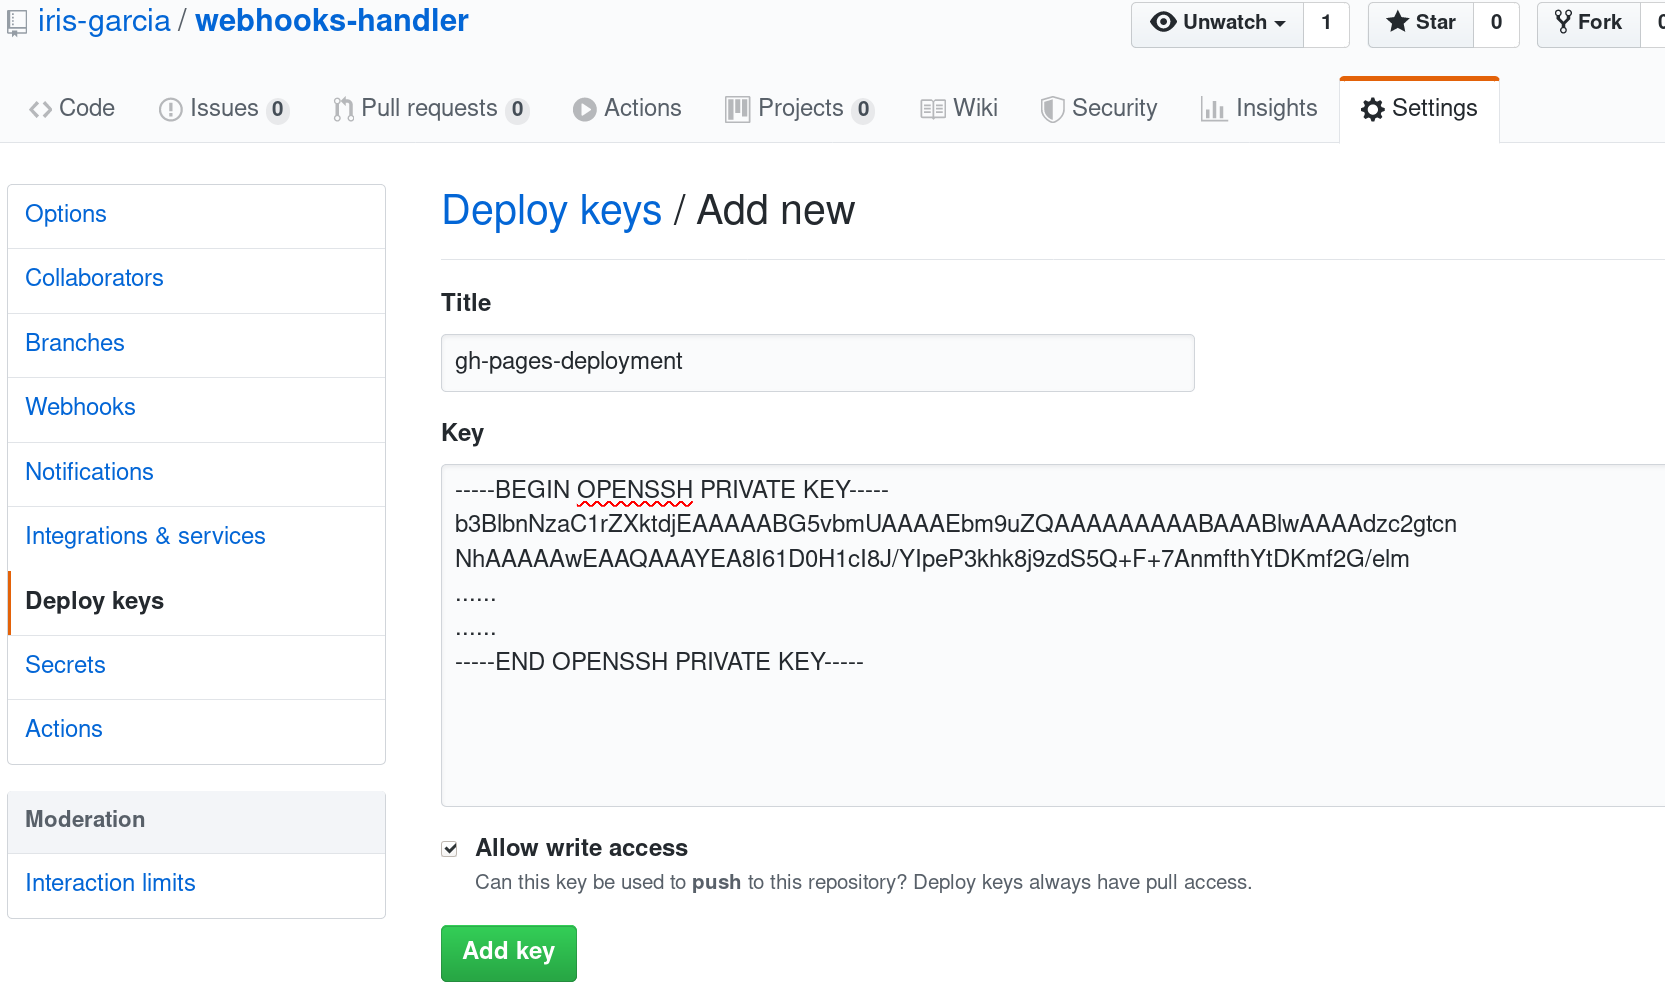
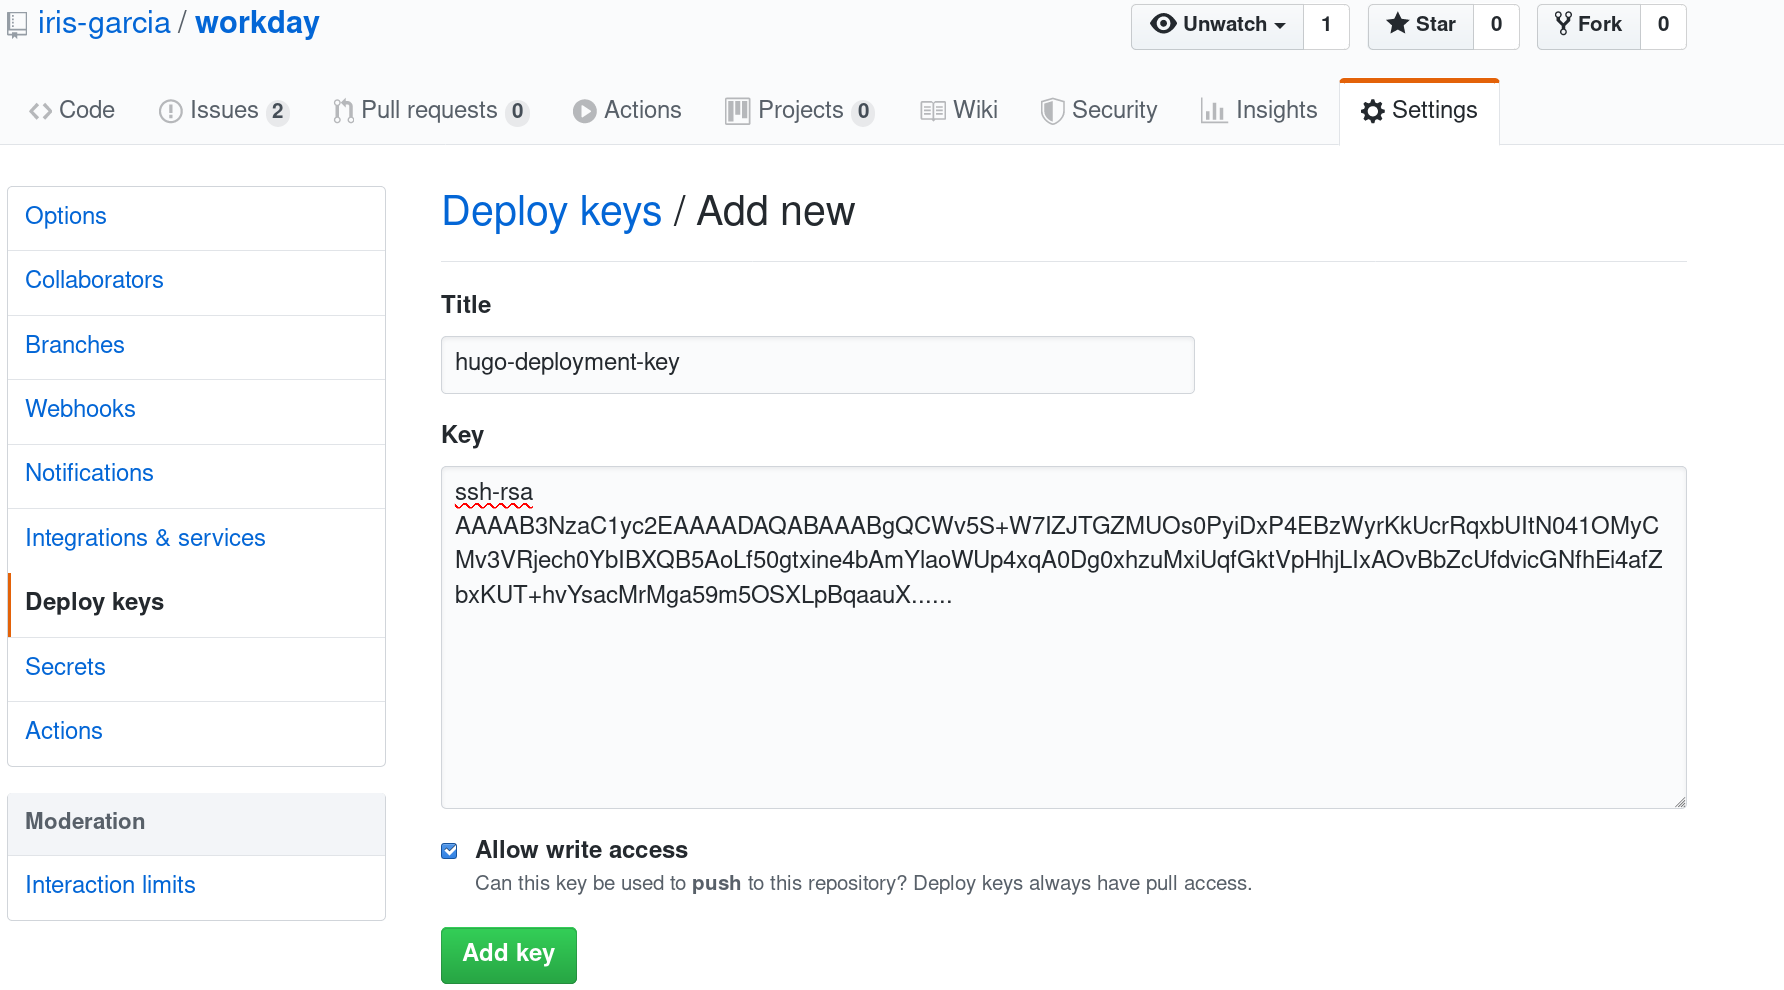
#13 Adds GitHub pages using hugo; closes #13.

diff --git a/docs/content/howto/gh-pages/_index.md b/docs/content/howto/gh-pages/_index.md
@@ -1,7 +1,7 @@
 +++
 title = "GitHub Pages"
 author = ["Iris Garcia"]
-lastmod = 2019-10-14T22:25:08+02:00
+lastmod = 2019-10-16T20:42:39+02:00
 tags = ["ci", "hugo", "doc"]
 draft = false
 weight = 1
@@ -22,23 +22,19 @@ are:
 
 So basically this project's repository has the following branches:
 
--   **master**: Hosts the source code of the project.
--   **hugo**: Hosts the source code of the documentation website.
--   **gh-pages**: Hosts the static assets generates by hugo.
+-   **master**: Hosts the source code of the project under the `docs/` folder.
+-   **gh-pages**: Hosts the static assets generated by hugo.
 
 
-## Step 1: Initializing branches {#step-1-initializing-branches}
+## Step 1: Structure {#step-1-structure}
 
 ```bash
-# Hugo branch
-git checkout -b hugo
-echo "public" >> .gitignore
-git add .gitignore
-git commit -m "Adds .gitignore"
+# Docs folder
+mkdir docs && cd docs
 hugo new site .
 git add .
 git commit -m "Adds initial hugo site"
-git push origin hugo
+git push origin master
 
 # gh-pages branch
 git checkout --orphan gh-pages
@@ -63,8 +59,8 @@ needed for the next steps.
 ## Step 3: Add a deployment key {#step-3-add-a-deployment-key}
 
 Navigate to your GitHub's repository settings and under **Deploy keys**
-and add a new one using the content of the `hugo` SSH private key
-generated in the previous step.
+add a new one using the content of the `hugo.pub` SSH key generated in
+the previous step.
 
 {{< figure src="/images/deploy_key.png" >}}
 
@@ -74,30 +70,38 @@ Action won't be able to push changes.
 {{% /notice %}}
 
 
-## Step 4: Add the GitHub's Action. {#step-4-add-the-github-s-action-dot}
+## Step 4: Create a secret {#step-4-create-a-secret}
+
+Navigate to you GitHub's repository settings and under **Secrets** add a
+new one using the content of the `hugo` SSH private key generated in
+the [step 2](#step-2-generate-a-ssh-key-dot).
+
+{{< figure src="/images/gh_secret.png" >}}
+
+
+## Step 5: Add the GitHub's Action. {#step-5-add-the-github-s-action-dot}
 
 Create the needed directory in the **hugo** branch:
 
 ```bash
-git checkout hugo
 mkdir -p .github/workflows
 ```
 
 Add a new file in the path `.github/workflows/gh_pages.yml` with the
 following content:
 
-{{< highlight yaml "hl_lines=35" >}}
-name: gh_pages
-
+```yaml
 on:
   push:
-    branches:
-      - hugo
+    paths:
+      - 'docs/**'
+      - '.github/workflows/hugo.yml'
+
+name: Hugo
 
 jobs:
   build:
-
-    runs-on: ubuntu-18.04
+    runs-on: ubuntu-latest
 
     steps:
     - uses: actions/checkout@v1
@@ -107,32 +111,34 @@ jobs:
         wget https://github.com/gohugoio/hugo/releases/download/v0.57.0/hugo_0.57.0_Linux-64bit.deb
         sudo dpkg -i hugo_0.57.0_Linux-64bit.deb
         hugo version
+
     - name: Build hugo site
       run: |
+        cd docs
         rm -rf public
         git worktree add -b gh-pages public origin/gh-pages
         hugo
 
     - name: Configure git and deployment key
       env:
-        GITHUB_DEPLOY_KEY: ${{ secrets.GITHUB_DEPLOY_KEY }}
+        GITHUB_TOKEN: ${{ secrets.GITHUB_TOKEN }}
+        GITHUB_DEPLOY_KEY: ${{ secrets.WORKDAY_GH }}
       run: |
         mkdir /home/runner/.ssh
         ssh-keyscan -t rsa github.com >/home/runner/.ssh/known_hosts
         echo "${GITHUB_DEPLOY_KEY}" > /home/runner/.ssh/id_rsa && \
         chmod 400 /home/runner/.ssh/id_rsa
-        git remote set-url origin git@github.com:iris-garcia/webhooks-handler.git
+        git remote set-url origin git@github.com:iris-garcia/workday.git
         git config --global user.name "GitHub Action"
         git config --global user.email "action@github.com"
 
     - name: Commit and push changes to gh-pages
       run: |
-        cd public
-        git add --all
+        cd docs/public
+        git add .
         git commit -m "Publishing to gh-pages branch"
-        cd ..
         git push origin gh-pages
-{{< /highlight >}}
+```
 
 {{% notice note %}}
 Replace the origin's remote with your repository.
@@ -144,7 +150,7 @@ Action).
 ```bash
 git add .github/workflows/gh_pages.yml
 git commit -m "Adds GitHub's Action to build hugo site."
-git push origin hugo
+git push origin master
 ```
 
 

diff --git a/docs/content/ci/github.md b/docs/content/ci/github.md
@@ -1,0 +1,105 @@
++++
+title = "GitHub Actions"
+author = ["Iris Garcia"]
+lastmod = 2019-10-16T20:41:58+02:00
+draft = false
+weight = 3
+asciinema = true
++++
+
+## Description {#description}
+
+GitHub Actions is the new continuous integration and deployment system
+built and maintained by the community.
+
+
+## Configuration {#configuration}
+
+Currently there are two workflows configured:
+
+
+### Test and coverage {#test-and-coverage}
+
+This workflow takes care of the Unit tests and shows the total
+coverage of the project.
+
+```yaml
+on: push
+
+name: Unit tests
+
+jobs:
+  checks:
+    name: run
+    runs-on: ubuntu-latest
+
+    steps:
+    - uses: actions/checkout@master
+
+    - name: run
+      uses: cedrickring/golang-action@1.4.1
+      env:
+        GO111MODULE: "on"
+      with:
+        args: go build && go test -cover -v
+```
+
+
+### Hugo documentation site {#hugo-documentation-site}
+
+This workflow is not really a typical continuous integration one, but
+I think it makes sense to mention it here as it is taking care of
+automatically update the documentation site.
+
+```yaml
+on:
+  push:
+    paths:
+      - 'docs/**'
+      - '.github/workflows/hugo.yml'
+
+name: Hugo
+
+jobs:
+  build:
+    runs-on: ubuntu-latest
+
+    steps:
+    - uses: actions/checkout@v1
+    - name: Installs hugo
+      run: |
+        cd /tmp
+        wget https://github.com/gohugoio/hugo/releases/download/v0.57.0/hugo_0.57.0_Linux-64bit.deb
+        sudo dpkg -i hugo_0.57.0_Linux-64bit.deb
+        hugo version
+
+    - name: Build hugo site
+      run: |
+        cd docs
+        rm -rf public
+        git worktree add -b gh-pages public origin/gh-pages
+        hugo
+
+    - name: Configure git and deployment key
+      env:
+        GITHUB_TOKEN: ${{ secrets.GITHUB_TOKEN }}
+        GITHUB_DEPLOY_KEY: ${{ secrets.WORKDAY_GH }}
+      run: |
+        mkdir /home/runner/.ssh
+        ssh-keyscan -t rsa github.com >/home/runner/.ssh/known_hosts
+        echo "${GITHUB_DEPLOY_KEY}" > /home/runner/.ssh/id_rsa && \
+        chmod 400 /home/runner/.ssh/id_rsa
+        git remote set-url origin git@github.com:iris-garcia/workday.git
+        git config --global user.name "GitHub Action"
+        git config --global user.email "action@github.com"
+
+    - name: Commit and push changes to gh-pages
+      run: |
+        cd docs/public
+        git add .
+        git commit -m "Publishing to gh-pages branch"
+        git push origin gh-pages
+```
+
+To get this one working there are some requisites explained in a howto
+[document](/howto/gh-pages).

diff --git a/docs/content/ci/travis.md b/docs/content/ci/travis.md
@@ -1,7 +1,7 @@
 +++
 title = "Travis CI"
 author = ["Iris Garcia"]
-lastmod = 2019-10-16T14:21:49+02:00
+lastmod = 2019-10-16T20:40:18+02:00
 draft = false
 weight = 3
 asciinema = true
@@ -20,3 +20,34 @@ must be placed in the root directory of the project.
 
 
 ## Configuration {#configuration}
+
+To avoid replicating exactly the same workflows in GitHub Actions and
+Travis, there are some little changes like testing two different Go
+versions: `v1.13.x` and `master` (which is the latest available at any
+given time).
+
+It also releases artifacts when a new **tag** is pushed to the
+repository.
+
+```yaml
+language: go
+
+go:
+- 1.13.x
+- master
+
+jobs:
+  include:
+    - stage: tests coverage
+      script: go test -cover -v
+      go: 1.13.x
+
+    - stage: Release artifact to GitHub
+      deploy:
+        provider: releases
+        api_key: $WORKDAY_RELEASE
+        file: "workday"
+        skip_cleanup: true
+        on:
+          tags: true
+```

diff --git a/docs/content/howto/_index.md b/docs/content/howto/_index.md
@@ -1,13 +1,15 @@
 +++
 title = "How-to"
 author = ["Iris Garcia"]
-lastmod = 2019-10-14T22:25:15+02:00
+lastmod = 2019-10-16T20:29:12+02:00
 draft = false
 weight = 5
 chapter = true
+pre = "<b>5. </b>"
 +++
 
-<h1>How to's Section</h1>
-Table of contents:
+<h3> Chapter 5 </h3>
+<h1>How to's</h1>
 
--   [GitHub Pages](/howto/gh-pages)
+This chapter hosts all the step by step guides which I find useful to
+share.
